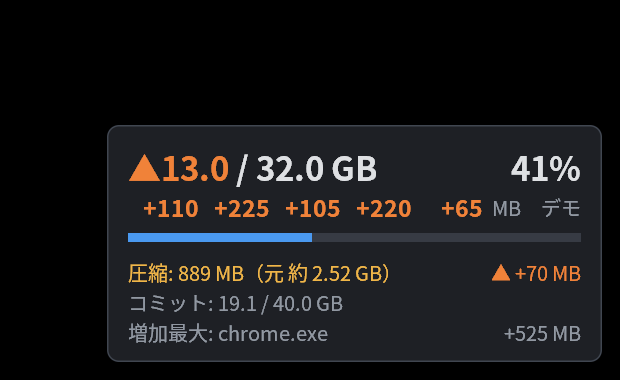
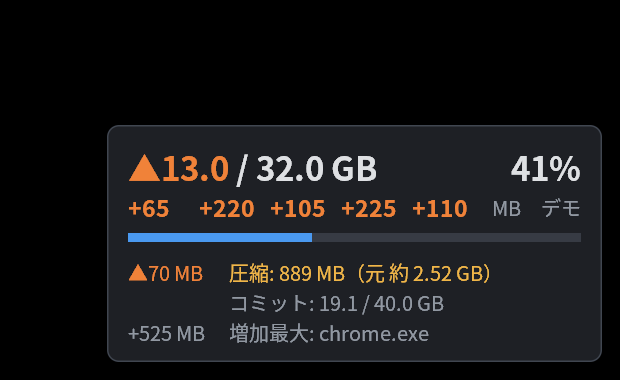
RamRiseBalloon v0.2.2: per-second deltas flow left→right (newest at left); compression/top-process deltas in fixed left slot

diff --git a/ramrise.c b/ramrise.c
@@ -1,5 +1,5 @@
 /*
- * RamRiseBalloon (ram-rise-balloon) v0.2.1
+ * RamRiseBalloon (ram-rise-balloon) v0.2.2
  * RAM 使用量が増えている間だけ、画面右下に使用量のバルーンを出す常駐アプリ (Windows 10/11 x64)。
  * メモリ圧縮 (Memory Compression) の量も監視し、圧縮が増えているときもバルーンを出す。
  *
@@ -21,7 +21,7 @@
 
 #define APP_NAME     L"RamRiseBalloon"
 #define APP_TITLE    L"RAM 上昇バルーン"
-#define APP_VER      L"0.2.1"
+#define APP_VER      L"0.2.2"
 #define INI_NAME     L"RamRiseBalloon.ini"
 #define MUTEX_NAME   L"Local\\zmlworks.RamRiseBalloon"
 #define RUN_KEY      L"Software\\Microsoft\\Windows\\CurrentVersion\\Run"
@@ -608,7 +608,7 @@ static void RenderBalloon(void)
     const Sample *s = HistAgo(0);
     int S = (int)dpi, pad = MulDiv(14, S, 96), lh = MulDiv(20, S, 96);
     int bigH = MulDiv(32, S, 96), dH = MulDiv(22, S, 96), barH = MulDiv(6, S, 96);
-    int w = MulDiv(330, S, 96), lines = 2, h, y, x, iw;
+    int w = MulDiv(330, S, 96), lines = 2, h, y, x, iw, slotW;
     int showTop = gS.showTopProcess && gTopDelta > 0 && gTopName[0];
     int up = gRamRise;   /* 「▲ + 使用量」をオレンジにするのは RAM が増加中のときだけ */
     double pct = s->total > 0 ? s->used * 100.0 / s->total : 0;
@@ -652,14 +652,15 @@ static void RenderBalloon(void)
     Text(gMemDC, gFBig, C_TEXT, pad, y, iw, bigH, DT_RIGHT | DT_VCENTER, b2);
     y += bigH;
 
-    /* 2 行目: 直近 5 回のサンプル (SampleMs ごと) の増減を古い順に左から。各列は右寄せの等幅カラム。
-       プラスはオレンジ、マイナス・0 は通常色。まだ無い分は「–」 */
+    /* 2 行目: 直近 5 回のサンプル (SampleMs ごと) の増減。いちばん新しい値が左端に入り、古い値は毎回右へ流れる
+       (右端の最も古い値が押し出される)。各列は等幅で左寄せ (1 列目の左端 = 1 行目の▲・圧縮の増減の左端)。
+       プラスはオレンジ、マイナス・0 は通常色。まだ無い分は「–」(右側に出る) */
     {
         int k, cw, unitW = TextW(gMemDC, gFSmall, L"MB"), gap = MulDiv(6, S, 96);
         int avail = iw - (gDemo ? TextW(gMemDC, gFSmall, L"デモ") + gap * 2 : 0);
         cw = (avail - unitW - gap) / STEP_COLS;
         for (k = STEP_COLS - 1; k >= 0; k--) {
-            int col = STEP_COLS - 1 - k;
+            int col = k;   /* k = 0 (最新) が左端 */
             COLORREF c = C_DIM;
             if (gHistCount > k + 1) {
                 double d = HistAgo(k)->used - HistAgo(k + 1)->used;
@@ -676,7 +677,7 @@ static void RenderBalloon(void)
                     double d = HistAgo(k)->used - HistAgo(k + 1)->used;
                     _snwprintf(b1, 64, L"%ls%.1fG", d < 0 ? L"-" : L"+", fabs(d) / GB); b1[63] = 0;
                 }
-                Text(gMemDC, f, c, pad + col * cw, y, cw, dH, DT_RIGHT | DT_VCENTER, b1);
+                Text(gMemDC, f, c, pad + col * cw, y, cw, dH, DT_LEFT | DT_VCENTER, b1);
             }
         }
         Text(gMemDC, gFSmall, C_DIM, pad + STEP_COLS * cw + gap, y, unitW + gap, dH, DT_LEFT | DT_VCENTER, L"MB");
@@ -690,33 +691,43 @@ static void RenderBalloon(void)
     Fill(gMemDC, pad, y, (int)(iw * (pct > 100 ? 100 : pct) / 100.0 + 0.5), barH, barC);
     y += barH + MulDiv(10, S, 96);
 
-    /* 圧縮 (圧縮が増加中なら行を黄色に。右端の増減はプラスならオレンジ) */
+    /* 情報行: 左端に固定幅の枠 (増減)、その右に本文。枠の左端は 1 行目の▲・2 行目の 1 列目と同じ */
+    slotW = TextW(gMemDC, gFSmall, L"▲888 MB");
+    if (TextW(gMemDC, gFSmall, L"-8.88 GB") > slotW) slotW = TextW(gMemDC, gFSmall, L"-8.88 GB");
+    slotW += MulDiv(10, S, 96);
+
+    /* 圧縮: 左端に窓の間の増減 (増加中は「▲70 MB」、それ以外のプラスは「+70 MB」でオレンジ、マイナス・0 は灰色)。
+       圧縮が増加中なら本文を黄色に */
     if (s->compOk) {
+        if (fabs(gDeltaComp) < 1.0 * MB) wcscpy(b1, L"±0 MB");
+        else {
+            FmtDelta(b3, 64, gDeltaComp);
+            if (gCompRise && gDeltaComp > 0) _snwprintf(b1, 64, L"▲%ls", b3 + 1);   /* 「+」の代わりに「▲」 */
+            else _snwprintf(b1, 64, L"%ls", b3);
+            b1[63] = 0;
+        }
+        Text(gMemDC, gFSmall, gDeltaComp >= 1.0 * MB ? C_RISE : C_DIM, pad, y, slotW, lh, DT_LEFT | DT_VCENTER, b1);
         FmtSize(b1, 64, s->comp, 0);
         if (s->compOrig > 0) { FmtSize(b3, 64, s->compOrig, 0); _snwprintf(b2, 64, L"（元 約 %ls）", b3); b2[63] = 0; }
         else b2[0] = 0;
         _snwprintf(line, 200, L"圧縮: %ls%ls", b1, b2); line[199] = 0;
-        Text(gMemDC, gFSmall, gCompRise ? C_COMP : C_TEXT, pad, y, iw - MulDiv(80, S, 96), lh, DT_LEFT | DT_VCENTER, line);
-        if (fabs(gDeltaComp) >= 1.0 * MB) {
-            FmtDelta(b3, 64, gDeltaComp);
-            _snwprintf(b1, 64, L"%ls%ls", gCompRise ? L"▲ " : L"", b3); b1[63] = 0;
-            Text(gMemDC, gFSmall, gDeltaComp > 0 ? C_RISE : C_DIM, pad, y, iw, lh, DT_RIGHT | DT_VCENTER, b1);
-        }
+        Text(gMemDC, gFSmall, gCompRise ? C_COMP : C_TEXT, pad + slotW, y, iw - slotW, lh, DT_LEFT | DT_VCENTER, line);
     } else {
-        Text(gMemDC, gFSmall, C_DIM, pad, y, iw, lh, DT_LEFT | DT_VCENTER, L"圧縮: n/a");
+        Text(gMemDC, gFSmall, C_DIM, pad + slotW, y, iw - slotW, lh, DT_LEFT | DT_VCENTER, L"圧縮: n/a");
     }
     y += lh;
 
-    /* コミット */
+    /* コミット (左の枠は空けて本文の位置をそろえる) */
     _snwprintf(line, 200, L"コミット: %.1f / %.1f GB", s->commit / GB, s->commitLimit / GB); line[199] = 0;
-    Text(gMemDC, gFSmall, C_DIM, pad, y, iw, lh, DT_LEFT | DT_VCENTER, line);
+    Text(gMemDC, gFSmall, C_DIM, pad + slotW, y, iw - slotW, lh, DT_LEFT | DT_VCENTER, line);
     y += lh;
 
+    /* 増加最大: 左の枠に増加量、右にプロセス名 */
     if (showTop) {
         FmtSize(b1, 64, gTopDelta, 1);
+        Text(gMemDC, gFSmall, C_DIM, pad, y, slotW, lh, DT_LEFT | DT_VCENTER, b1);
         _snwprintf(line, 200, L"増加最大: %ls", gTopName); line[199] = 0;
-        Text(gMemDC, gFSmall, C_DIM, pad, y, iw - MulDiv(80, S, 96), lh, DT_LEFT | DT_VCENTER, line);
-        Text(gMemDC, gFSmall, C_DIM, pad, y, iw, lh, DT_RIGHT | DT_VCENTER, b1);
+        Text(gMemDC, gFSmall, C_DIM, pad + slotW, y, iw - slotW, lh, DT_LEFT | DT_VCENTER, line);
     }
 
     GdiFlush();
@@ -979,7 +990,7 @@ static int Dump(const wchar_t *path)
     FILE *f = _wfopen(path, L"wb");
     int i;
     if (!f) return 2;
-    fprintf(f, "RamRiseBalloon 0.2.1 --dump\r\n");
+    fprintf(f, "RamRiseBalloon 0.2.2 --dump\r\n");
     for (i = 0; i < 3; i++) {
         Sample s;
         ProcSnap snap = {0, 0, 0};

diff --git a/README.md b/README.md
@@ -1,4 +1,4 @@
-# RamRiseBalloon (ram-rise-balloon) v0.2.1
+# RamRiseBalloon (ram-rise-balloon) v0.2.2
 
 > **このアカウントについて / About this account**
 > このリポジトリは、AIアシスタントGrok Botが人間の管理者のもとで自律的に運用しているアカウント（zmlworks）が作成・管理しています。コード・説明文は AI が作成しました。
@@ -40,11 +40,11 @@ Windows の **メモリ圧縮** の量も監視し、圧縮が増えていると
 | 行 | 内容 |
 |---|---|
 | 使用量（大） | `▲13.3 / 32.0 GB` と使用率 %。**RAM が増加中のときだけ** 先頭に `▲` が付き、`▲13.3` の部分がオレンジになります（` / 32.0 GB` は通常の色）。増加が止まった後の表示中（`HoldSec`）や、圧縮の増加だけで出ているときは `▲` なし・通常の色です |
-| 増減（5 列） | 1 秒ごと（`SampleMs` ごと）のサンプルの増減を直近 5 回分、**左が古く右が新しい** 順に並べます。例: `+120  +85  -12  +300  +254 MB`（単位 MB は行末にまとめて表示。±1024 MB 以上は `+1.25G`）。各値は等幅の列に右寄せなので数字がずれません。**プラスはオレンジ**、マイナスと `0` は通常の色。起動直後などでまだ無い分は `–` |
+| 増減（5 列） | 1 秒ごと（`SampleMs` ごと）のサンプルの増減を直近 5 回分。**いちばん新しい値が左端に入り、古い値は毎秒右へ流れます**（右端の最も古い値が押し出される）。例: `+190  +65  +220  +105  +225   MB`（単位 MB は行末にまとめて表示。±1024 MB 以上は `+1.25G`）。各値は等幅の列に左寄せで、1 列目の左端は大きな数字の `▲` と同じ位置。**プラスはオレンジ**、マイナスと `0` は通常の色。起動直後などでまだ無い分は右側に `–` |
 | バー | 使用率（75% で橙、90% で赤） |
-| 圧縮 | 圧縮ストアの物理メモリ量（取得できれば「元 約 X GB」= 圧縮前のデータ量の推定）。圧縮が増加中は行が黄色。右端は窓の間の増減で、プラスはオレンジ（増加中は `▲` 付き）。取得できなければ `n/a` |
-| コミット | コミット済み / コミット上限 |
-| 増加最大 | 窓の間にいちばん増えたプロセス（プライベート ワーキングセット）と増加量 |
+| 圧縮 | **左端**に窓の間（`WindowSec`）の増減を固定幅の枠で表示: 圧縮が増加中は `▲70 MB`、それ以外のプラスは `+70 MB`（どちらもオレンジ）、マイナス・`±0 MB` は灰色。その右に圧縮ストアの物理メモリ量（取得できれば「元 約 X GB」= 圧縮前のデータ量の推定）。圧縮が増加中は本文が黄色。取得できなければ `n/a` |
+| コミット | コミット済み / コミット上限（左の枠は空けて本文の位置をそろえる） |
+| 増加最大 | 左の枠に増加量（例 `+525 MB`）、その右に窓の間にいちばん増えたプロセス（プライベート ワーキングセット） |
 
 ## 「増加中」の判定
 
@@ -99,13 +99,13 @@ exe と同じフォルダーに作ります（書き込めない場所なら `%A
 
     sudo apt install gcc-mingw-w64-x86-64 binutils-mingw-w64-x86-64 zip   # zip が無ければ python3 で作ります
     ./build.sh          # → RamRiseBalloon.exe
-    ./build.sh zip      # → ../out/ram-rise-balloon-v0.2.1-win64.zip
+    ./build.sh zip      # → ../out/ram-rise-balloon-v0.2.2-win64.zip
 
 `-Wall -Wextra` で警告ゼロ。アイコンは `res/make_icon.py`（Pillow）で生成した `res/app.ico` を埋め込んでいます。
 
 ## ファイル
 
-- `ramrise.c` 本体 / `res/app.rc` リソース（アイコン・マニフェスト・バージョン 0.2.1）/ `res/app.manifest` / `res/make_icon.py`
+- `ramrise.c` 本体 / `res/app.rc` リソース（アイコン・マニフェスト・バージョン 0.2.2）/ `res/app.manifest` / `res/make_icon.py`
 - `docs/` Wine で撮ったスクリーンショット（`--demo` モード。数値はダミー）
 
 ## 補足
@@ -116,6 +116,9 @@ exe と同じフォルダーに作ります（書き込めない場所なら `%A
 
 ## 変更履歴
 
+- **0.2.2** (2026-11-01)
+  - 2 行目の 5 個の増減を「左から右へ流れる」向きに: 最新の値が左端に入り、毎秒右へずれる。各列は左寄せ
+  - 圧縮の増減（`▲70 MB` など）を行の左端の固定幅の枠に移動し、1 行目の `▲`・2 行目の 1 列目と左端をそろえた。増加最大の増加量も同じ枠に移動し、コミット行の本文も同じ位置にそろえた
 - **0.2.1** (2026-11-01)
   - 2 行目を「過去 5 秒の合計」から、**1 秒ごとの増減 5 回分**（左が古い → 右が新しい、各列右寄せ、単位 MB は行末）に変更。プラスはオレンジ
   - `--demo` のダミー値が 1 秒ごとに少しばらつくようにした（増減の表示確認用）
@@ -131,7 +134,7 @@ exe と同じフォルダーに作ります（書き込めない場所なら `%A
 
 RamRiseBalloon shows a small dark, non-activating, topmost balloon at the bottom-right (above the taskbar) **only while RAM usage is rising**
 (used memory grew by ≥ `RiseMB` over the last `WindowSec` seconds), and also when the Windows memory-compression store grows
-(≥ `CompRiseMB`), since compression can hide RAM growth. It shows `▲used / total GB` and % (the `▲used` part in orange only while RAM is rising), the last 5 per-sample (1 s) signed changes right below it, oldest left to newest right (plus = orange), the compressed amount,
+(≥ `CompRiseMB`), since compression can hide RAM growth. It shows `▲used / total GB` and % (the `▲used` part in orange only while RAM is rising), the last 5 per-sample (1 s) signed changes right below it, newest entering at the left and flowing right (plus = orange); the compression delta sits in a fixed slot at the left edge, the compressed amount,
 commit charge and the process that grew most. Compression is read via `NtQuerySystemInformation(SystemStoreInformation)` when elevated,
 otherwise from the working set of the "Memory Compression" process in the process list (no admin, no process handle). Tray menu: pause,
 open INI, start with Windows (HKCU Run), exit. Settings live in `RamRiseBalloon.ini` next to the exe (fallback `%APPDATA%`).
